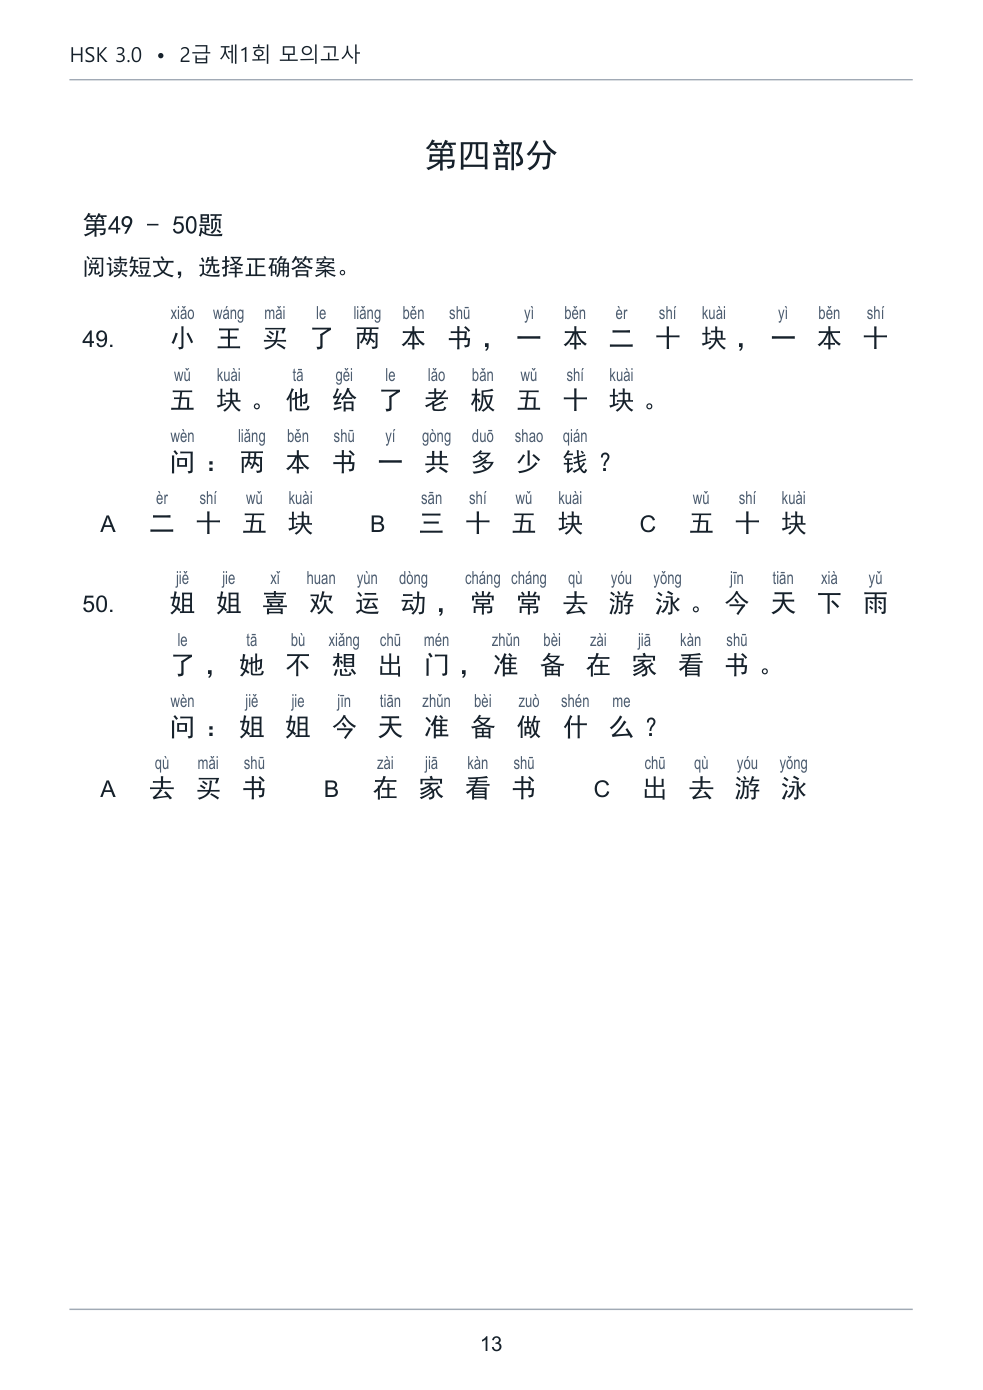
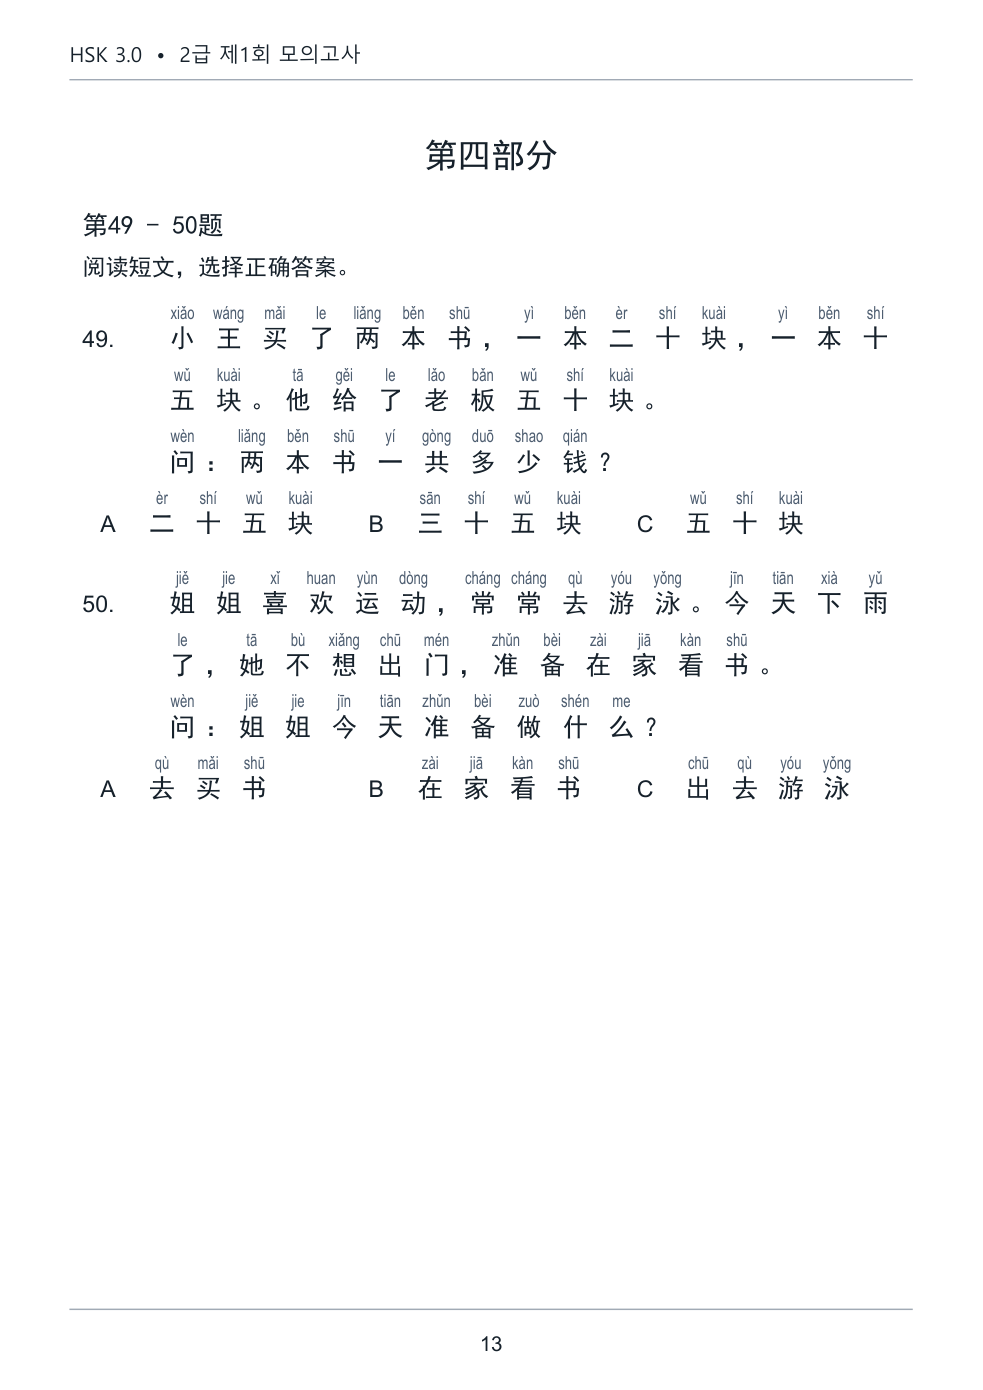
2급 제01회 선택지 열 정렬

diff --git a/2급/scripts/booklet.py b/2급/scripts/booklet.py
@@ -41,6 +41,10 @@ NUMBER_SIZE = 9
 RUBY_OFFSET = 11
 ROW_STEP = 24
 CELL_WIDTH = 28 / (595.276 / 382)
+OPTION_LEFT = 39
+OPTION_RIGHT = 352
+OPTION_COLUMN = (OPTION_RIGHT - OPTION_LEFT) / 3
+OPTION_INSET = 15
 RUBY_SCALE = 0.73
 HALF_PUNCTUATION = '，。？！、：；（）,.?!:;'
 CLOSING_PUNCTUATION = '，。？！、：；）,.?!:;'
@@ -364,20 +368,23 @@ def draw_cells(layout,x,y,cells,right,writing_answer='',show_answer=False,step=R
     return y+index*step
 
 
-def group_plan(groups,answer_box=False,writing_answer=''):
+def group_plan(groups,answer_box=False,writing_answer='',*,checked=None):
+    if [label for label,_ in groups] == list('ABC'):
+        return [(label,OPTION_LEFT+column*OPTION_COLUMN,0,
+                 grid_lines(cells,OPTION_COLUMN-OPTION_INSET-(16 if label==checked else 4)))
+                for column,(label,cells) in enumerate(groups)]
     if len(groups)>1:
-        # Size each column by its option, so long options can use a second row.
         plan = []
         row = 0
-        x = 39
+        x = OPTION_LEFT
         for label,cells in groups:
-            lines = grid_lines(cells,352-54)
+            lines = grid_lines(cells,OPTION_RIGHT-OPTION_LEFT-OPTION_INSET)
             width = max(sum(cell[2] for cell in line) for line in lines)*CELL_WIDTH/2
-            if x+15+width > 352:
+            if x+OPTION_INSET+width > OPTION_RIGHT:
                 row = max(offset+len(lines) for _,_,offset,lines in plan)
-                x = 39
+                x = OPTION_LEFT
             plan.append((label,x,row,lines))
-            x += 15+width+18
+            x += OPTION_INSET+width+18
         return plan
     label,cells = groups[0]
     return [(label,32,0,grid_lines(cells,(321 if answer_box else 352)-62,writing_answer))]
@@ -395,12 +402,23 @@ def draw_plan(layout,y,plan,answer_box,step):
         if answer_box:
             layout.box(329,baseline-12)
         for i,line in enumerate(lines):
-            draw_grid(layout,62 if x==32 else x+15,baseline+i*step,line)
+            draw_grid(layout,62 if x==32 else x+OPTION_INSET,baseline+i*step,line)
     return y+(plan_height(plan)-1)*step
 
 
 def plan_height(plan):
     return max(offset+len(lines) for _,_,offset,lines in plan)
+
+
+def draw_checked_options(layout,y,groups,checked):
+    plan = group_plan(groups,checked=checked)
+    last_y = draw_plan(layout,y,plan,False,ROW_STEP)
+    _,x,offset,lines = next(item for item in plan if item[0]==checked)
+    used = sum(cell[2] for cell in lines[-1])*CELL_WIDTH/2
+    # Leave a grid cell after the last glyph where the column permits it.
+    mark_x = min(x+OPTION_INSET+used+CELL_WIDTH-4,x+OPTION_COLUMN-13)
+    layout.mark(mark_x,y+(offset+len(lines)-1)*ROW_STEP-3)
+    return last_y
 
 
 def question_blocks(rows):
@@ -447,27 +465,27 @@ def draw_components(layout,page,y):
         inside = [span for span in spans if span['origin'][0] < 150]
         arrow, = [span for span in spans if span['text']=='→']
         layout.text(32,y,number[0]['text'],NUMBER_SIZE,'Latin')
-        x = 62
+        diagram_x = 97
+        x = diagram_x
         for span in hint:
             value = span['text']
             font = 'KR' if 'Malgun' in span['font'] else 'Latin'
             size = PINYIN_SIZE if font=='Latin' else NUMBER_SIZE
-            layout.text(x,y-10,value,size,font)
+            layout.text(x,y-4,value,size,font)
             x += pdfmetrics.stringWidth(value,font,size)
-        layout.box(62,y+1,45,32)
+        layout.box(diagram_x,y+1,45,32)
         for span in inside:
             sx,sy = span['origin']
             value = span['text']
             font = 'Latin' if value=='?' else 'CN'
-            layout.text(67+(sx-84)*.60,y+(sy-baseline)*.49,value,BODY_SIZE,font)
-        for i in range(3):
-            x = 126+48*i
-            layout.text(x,y+23,choices[2*i]['text'],NUMBER_SIZE,'Latin')
-            draw_cells(layout,x+14,y+23,[(choices[2*i+1]['text'],ruby[i]['text'])],x+35)
-        layout.text(289,y+23,arrow['text'],BODY_SIZE)
+            layout.text(diagram_x+5+(sx-84)*.60,y+(sy-baseline)*.49,value,BODY_SIZE,font)
+        layout.text(224,y+23,arrow['text'],BODY_SIZE)
         layout.box(316,y+1,35,32)
-        y += 64
-    assert y-30 < 509
+        groups = [(choices[2*i]['text'].strip(),[(choices[2*i+1]['text'],ruby[i]['text'])])
+                  for i in range(3)]
+        bottom = draw_groups(layout,y+48,groups)
+        y = bottom+20
+    assert bottom < 509
 
 def draw_listening1_example(layout):
     c = layout.c
@@ -611,9 +629,8 @@ def booklet(source,raw,keys,set_number,output,examples):
                 t(32,130,'例',9)
                 for i,line in enumerate(EXAMPLE3):
                     t(62,130+i*17,line)
-                for x,s in zip((62,160,250),('A 公共汽车','B 自行车','C 地铁')):
-                    t(x,183,s)
-                layout.mark(68+pdfmetrics.stringWidth('A 公共汽车','CN',BODY_SIZE),180)
+                draw_checked_options(layout,183,[(label,[(han,'')]) for label,han in
+                                     zip('ABC',('公共汽车','自行车','地铁'))],'A')
                 y=211
             elif page==7:
                 y=135
@@ -643,12 +660,9 @@ def booklet(source,raw,keys,set_number,output,examples):
                     [(label,list(zip(han,py.split()))) for label,han,py in
                      [('A','今天','jīn tiān'),('B','明天','míng tiān'),('C','后天','hòu tiān')]],
                 ]
-                for y,groups in zip((133,157,181),example):
+                for y,groups in zip((133,157),example):
                     draw_groups(layout,y,groups)
-                option_plan = group_plan(example[-1])
-                _,x,_,lines = option_plan[1]
-                layout.mark(x+15+sum(cell[2] for cell in lines[0])*CELL_WIDTH/2+1,178)
-                y=208
+                y = draw_checked_options(layout,181,example[-1],'B')+27
             elif page==12:
                 t(32,145,'例',NUMBER_SIZE)
                 prefix = '日 ＋（月）→ '
